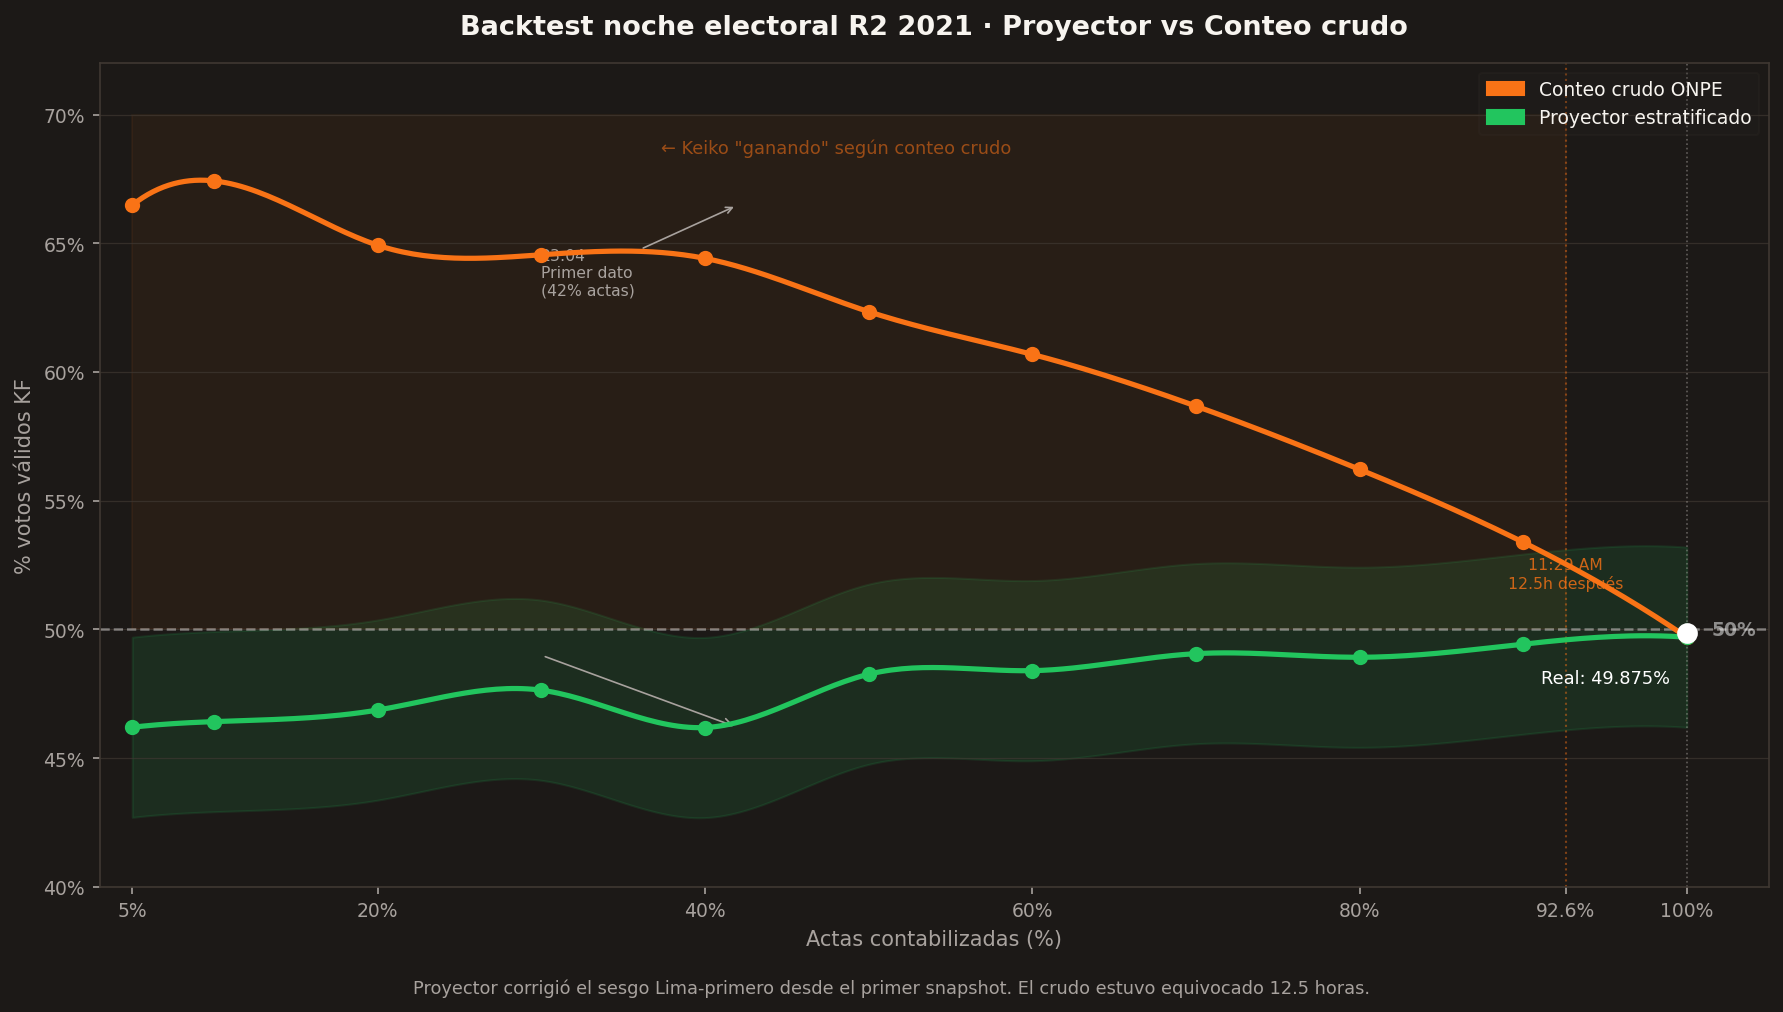
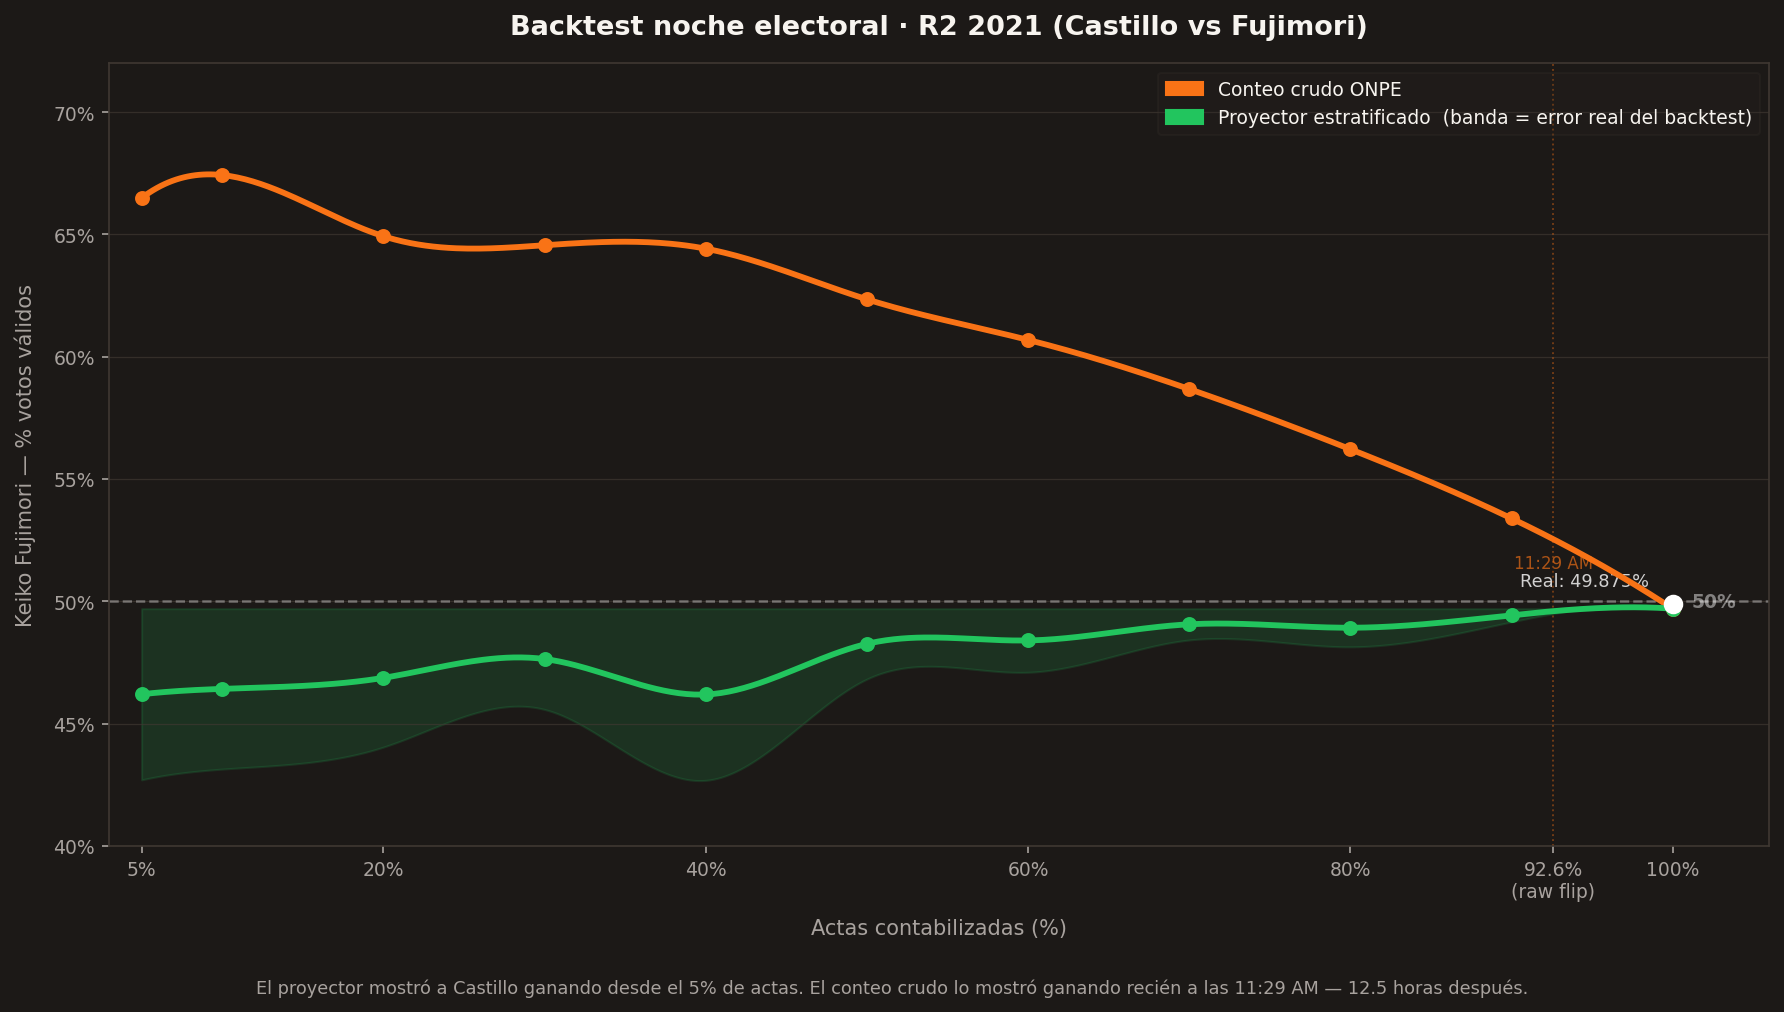
update: dynamic error band + remove annotations from backtest chart
Band width now reflects actual backtest errors at each actas milestone
(±3.5pp at 5%, narrows to ±0.3pp at 90%, with correct bump at 40% Lima-first peak).
Removed arrows and text annotations for cleaner Twitter visual.

https://claude.ai/code/session_01Y56eGPH4WjXKBPpbLhTJ6i

diff --git a/scripts/chart_backtest_2021.py b/scripts/chart_backtest_2021.py
@@ -9,134 +9,105 @@ import matplotlib.pyplot as plt
 import matplotlib.patches as mpatches
 import matplotlib.ticker as ticker
 import numpy as np
+from scipy.interpolate import make_interp_spline
 
 # ── Datos del backtest real ──────────────────────────────────────
 # Fuente: sandbox_r2_backtest_2021.py (jmcastagnetto dataset, 1835 distritos)
-# KF% en cada milestone de actas
-pct_actas = [0, 5, 10, 20, 30, 40, 50, 60, 70, 80, 90, 100]
+pct_actas = [5, 10, 20, 30, 40, 50, 60, 70, 80, 90, 100]
+raw_kf    = [66.49, 67.43, 64.93, 64.56, 64.42, 62.35, 60.69, 58.68, 56.22, 53.39, 49.70]
+proj_kf   = [46.20, 46.42, 46.87, 47.64, 46.19, 48.26, 48.40, 49.06, 48.92, 49.43, 49.70]
 
-raw_kf    = [None, 66.49, 67.43, 64.93, 64.56, 64.42, 62.35, 60.69, 58.68, 56.22, 53.39, 49.70]
-proj_kf   = [None, 46.20, 46.42, 46.87, 47.64, 46.19, 48.26, 48.40, 49.06, 48.92, 49.43, 49.70]
+# Error absoluto real del proyector en cada punto → define el ancho de la banda
+# (proj - 49.875 ONPE oficial, valores del backtest)
+proj_errors = [3.50, 3.28, 2.83, 2.06, 3.51, 1.44, 1.30, 0.64, 0.78, 0.27, 0.00]
 
-# Resultado final ONPE oficial
-RESULT = 49.875  # KF%
+RESULT = 49.875  # KF% ONPE oficial
 
-# Timestamps reales (fuente: RPP/Gestión live blogs, hora PET)
-MILESTONES = {
-    42: "23:04\n(42%)",
-    80.7: "02:38\n(81%)",
-    86.5: "04:12\n(87%)",
-    88.2: "05:30\n(88%)",
-    91.2: "09:06\n(91%)",
-    92.6: "11:29\n(93%)\n← Raw se voltea",
-}
+# ── Interpolación suave ──────────────────────────────────────────
+x = np.array(pct_actas)
+x_smooth = np.linspace(5, 100, 400)
 
-# Interpolación para curva suave
-from scipy.interpolate import make_interp_spline
-pct_num   = [p for p, r in zip(pct_actas, raw_kf)  if r is not None]
-raw_num   = [r for p, r in zip(pct_actas, raw_kf)  if r is not None]
-proj_num  = [p for p, r in zip(pct_actas, proj_kf) if r is not None]
-proj_vals = [r for p, r in zip(pct_actas, proj_kf) if r is not None]
+raw_smooth   = make_interp_spline(x, raw_kf,      k=3)(x_smooth)
+proj_smooth  = make_interp_spline(x, proj_kf,     k=3)(x_smooth)
+error_smooth = make_interp_spline(x, proj_errors, k=3)(x_smooth)
+error_smooth = np.clip(error_smooth, 0, None)  # no negativos
 
-x_smooth = np.linspace(5, 100, 300)
-try:
-    from scipy.interpolate import make_interp_spline
-    raw_smooth  = make_interp_spline(pct_num,  raw_num,  k=3)(x_smooth)
-    proj_smooth = make_interp_spline(proj_num, proj_vals, k=3)(x_smooth)
-except ImportError:
-    raw_smooth  = np.interp(x_smooth, pct_num,  raw_num)
-    proj_smooth = np.interp(x_smooth, proj_num, proj_vals)
+# ── Colores ───────────────────────────────────────────────────────
+KEIKO_COLOR = '#F97316'
+PROJ_COLOR  = '#22C55E'
+GRID_COLOR  = '#3F3832'
+TEXT_COLOR  = '#F7F4EF'
+MUTED_COLOR = '#A8A29E'
 
-# ── Layout ───────────────────────────────────────────────────────
-fig, ax = plt.subplots(figsize=(12, 6.75))  # 1200×675 → Twitter ratio
+# ── Canvas ───────────────────────────────────────────────────────
+fig, ax = plt.subplots(figsize=(12, 6.75))
 fig.patch.set_facecolor('#1C1917')
 ax.set_facecolor('#1C1917')
 
-KEIKO_COLOR   = '#F97316'
-PROJ_COLOR    = '#22C55E'
-GRID_COLOR    = '#3F3832'
-TEXT_COLOR    = '#F7F4EF'
-MUTED_COLOR   = '#A8A29E'
-
-# ── Zona de error del proyector (banda ±3pp) ─────────────────────
-ax.fill_between(x_smooth, proj_smooth - 3.5, proj_smooth + 3.5,
-                alpha=0.12, color=PROJ_COLOR, label='_nolegend_')
+# ── Banda de error dinámica (se angosta conforme entran más actas) ─
+ax.fill_between(x_smooth,
+                proj_smooth - error_smooth,
+                proj_smooth + error_smooth,
+                alpha=0.15, color=PROJ_COLOR)
 
 # ── Línea 50% ────────────────────────────────────────────────────
-ax.axhline(50, color='#FFFFFF', linewidth=1.2, linestyle='--', alpha=0.4, zorder=2)
-ax.text(101.5, 50, '50%', color='#FFFFFF', alpha=0.5, fontsize=9,
+ax.axhline(50, color='#FFFFFF', linewidth=1.2, linestyle='--', alpha=0.35, zorder=2)
+ax.text(101.2, 50, '50%', color='#FFFFFF', alpha=0.45, fontsize=9,
         va='center', fontweight='bold')
 
-# ── Zona "Keiko arriba" (raw la mostraba ganando) ────────────────
-ax.fill_between([5, 92.6], [50, 50], [70, 70],
-                alpha=0.06, color=KEIKO_COLOR)
-ax.text(48, 68.5, '← Keiko "ganando" según conteo crudo', color=KEIKO_COLOR,
-        alpha=0.55, fontsize=8.5, ha='center')
+# ── Flip del raw ─────────────────────────────────────────────────
+ax.axvline(92.6, color=KEIKO_COLOR, linewidth=0.9, linestyle=':', alpha=0.4, zorder=2)
+ax.text(92.6, 51.2, '11:29 AM', color=KEIKO_COLOR,
+        fontsize=8, ha='center', va='bottom', alpha=0.65)
 
 # ── Líneas principales ───────────────────────────────────────────
-ax.plot(x_smooth, raw_smooth, color=KEIKO_COLOR, linewidth=2.5,
+ax.plot(x_smooth, raw_smooth,  color=KEIKO_COLOR, linewidth=2.8,
         label='Conteo crudo ONPE', zorder=5)
-ax.plot(x_smooth, proj_smooth, color=PROJ_COLOR, linewidth=2.5,
+ax.plot(x_smooth, proj_smooth, color=PROJ_COLOR,  linewidth=2.8,
         label='Proyector estratificado', zorder=5)
 
-# Puntos en los milestones reales
-ax.scatter(pct_num,  raw_num,  color=KEIKO_COLOR, s=40, zorder=6)
-ax.scatter(proj_num, proj_vals, color=PROJ_COLOR,  s=40, zorder=6)
+# Puntos en cada milestone
+ax.scatter(pct_actas, raw_kf,  color=KEIKO_COLOR, s=38, zorder=6)
+ax.scatter(pct_actas, proj_kf, color=PROJ_COLOR,  s=38, zorder=6)
 
 # ── Resultado final ──────────────────────────────────────────────
-ax.axvline(100, color=MUTED_COLOR, linewidth=0.8, linestyle=':', alpha=0.5)
-ax.scatter([100], [RESULT], color='#FFFFFF', s=80, zorder=7)
-ax.text(99, RESULT - 1.4, f'Real: {RESULT}%', color='#FFFFFF',
-        fontsize=8.5, ha='right', va='top')
-
-# ── Flip del crudo ───────────────────────────────────────────────
-ax.axvline(92.6, color=KEIKO_COLOR, linewidth=1, linestyle=':', alpha=0.45)
-ax.text(92.6, 51.5, '11:29 AM\n12.5h después', color=KEIKO_COLOR,
-        fontsize=7.5, ha='center', va='bottom', alpha=0.8)
-
-# ── Anotaciones timestamp principales ────────────────────────────
-ann_pts = [(42, 'raw', '23:04\n(~42%)'), (42, 'proj', None)]
-ax.annotate('23:04\nPrimer dato\n(42% actas)',
-            xy=(42, 66.49), xytext=(30, 63),
-            color=MUTED_COLOR, fontsize=7.5,
-            arrowprops=dict(arrowstyle='->', color=MUTED_COLOR, lw=0.8))
-ax.annotate('',
-            xy=(42, 46.19), xytext=(30, 49),
-            arrowprops=dict(arrowstyle='->', color=MUTED_COLOR, lw=0.8))
+ax.scatter([100], [RESULT], color='#FFFFFF', s=70, zorder=7)
+ax.text(98.5, RESULT + 0.6, f'Real: {RESULT}%',
+        color='#FFFFFF', fontsize=8.5, ha='right', va='bottom', alpha=0.8)
 
 # ── Ejes ─────────────────────────────────────────────────────────
-ax.set_xlim(3, 105)
+ax.set_xlim(3, 106)
 ax.set_ylim(40, 72)
-ax.set_xlabel('Actas contabilizadas (%)', color=MUTED_COLOR, fontsize=10)
-ax.set_ylabel('% votos válidos KF', color=MUTED_COLOR, fontsize=10)
+ax.set_xlabel('Actas contabilizadas (%)', color=MUTED_COLOR, fontsize=10, labelpad=8)
+ax.set_ylabel('Keiko Fujimori — % votos válidos', color=MUTED_COLOR, fontsize=10, labelpad=8)
 ax.tick_params(colors=MUTED_COLOR, labelsize=9)
 for spine in ax.spines.values():
     spine.set_color(GRID_COLOR)
 ax.yaxis.set_major_formatter(ticker.FormatStrFormatter('%g%%'))
 ax.set_xticks([5, 20, 40, 60, 80, 92.6, 100])
-ax.set_xticklabels(['5%', '20%', '40%', '60%', '80%', '92.6%', '100%'])
+ax.set_xticklabels(['5%', '20%', '40%', '60%', '80%', '92.6%\n(raw flip)', '100%'],
+                   color=MUTED_COLOR)
 ax.grid(axis='y', color=GRID_COLOR, linewidth=0.6, alpha=0.7)
 
 # ── Título y leyenda ─────────────────────────────────────────────
-ax.set_title('Backtest noche electoral R2 2021 · Proyector vs Conteo crudo',
+ax.set_title('Backtest noche electoral · R2 2021 (Castillo vs Fujimori)',
              color=TEXT_COLOR, fontsize=13, fontweight='bold', pad=14)
 
 legend_handles = [
     mpatches.Patch(color=KEIKO_COLOR, label='Conteo crudo ONPE'),
-    mpatches.Patch(color=PROJ_COLOR,  label='Proyector estratificado'),
+    mpatches.Patch(color=PROJ_COLOR,  label='Proyector estratificado  (banda = error real del backtest)'),
 ]
 leg = ax.legend(handles=legend_handles, loc='upper right',
-                framealpha=0.15, facecolor='#2C2825',
+                framealpha=0.2, facecolor='#2C2825',
                 edgecolor=GRID_COLOR, labelcolor=TEXT_COLOR, fontsize=9)
 
-# ── Subtítulo / nota ─────────────────────────────────────────────
+# ── Nota al pie ──────────────────────────────────────────────────
 fig.text(0.5, 0.01,
-         'Proyector corrigió el sesgo Lima-primero desde el primer snapshot. '
-         'El crudo estuvo equivocado 12.5 horas.',
+         'El proyector mostró a Castillo ganando desde el 5% de actas. '
+         'El conteo crudo lo mostró ganando recién a las 11:29 AM — 12.5 horas después.',
          ha='center', color=MUTED_COLOR, fontsize=8.5)
 
-plt.tight_layout(rect=[0, 0.03, 1, 1])
-
+plt.tight_layout(rect=[0, 0.04, 1, 1])
 out = 'scripts/backtest_2021_chart.png'
 plt.savefig(out, dpi=150, bbox_inches='tight', facecolor=fig.get_facecolor())
 print(f'Guardado: {out}')
